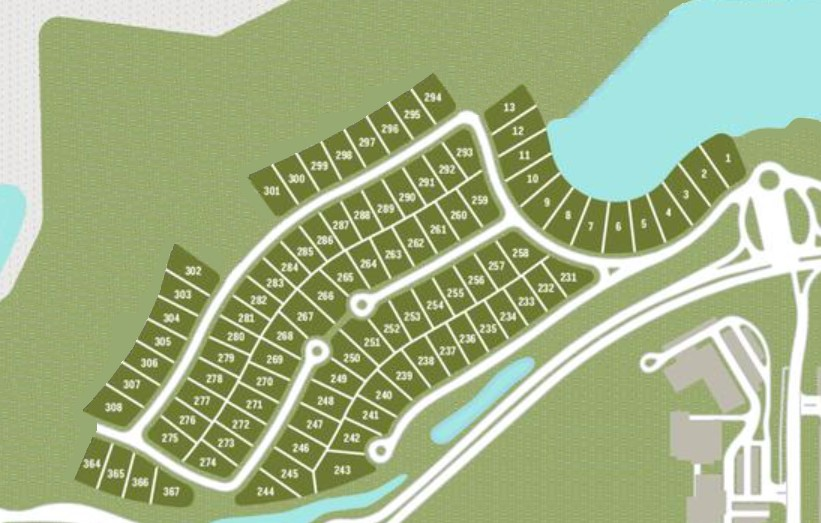
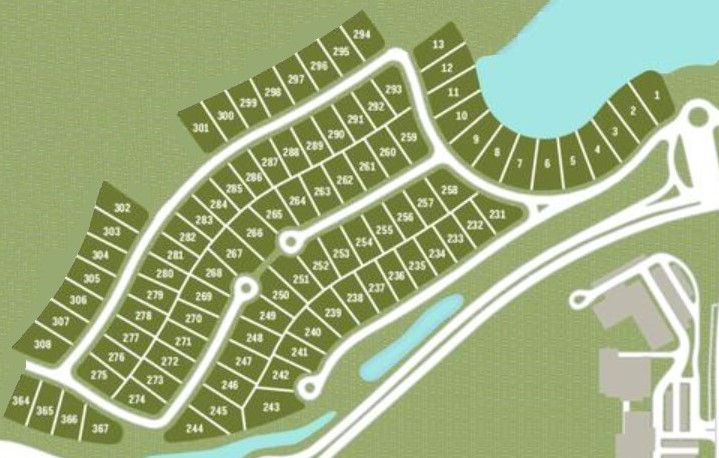
modifique tamano de mapa y parametros de las coordenadas

diff --git a/src/app/map/page.js b/src/app/map/page.js
@@ -9,7 +9,8 @@ import { getAllRobots } from "../networking/endpoints/robots";
 export default function Map() {
 
   //LOS PARÁMETROS DE X E Y VAN A TENER QUE SER MODIFICADOS ACORDE AL TAMAÑO DEL MAPA...
-  //EL MAPA ES 2.4 VECES MÁS GRANDE QUE LAS MEDIDAS DEL MAPA QUE USA PEDRO, 342 x 218...
+  //EL MAPA ES 2.1 VECES MÁS GRANDE QUE LAS MEDIDAS DEL MAPA QUE USA PEDRO, 342 x 218...
+  //LOS X e Y QUE VENGAN DEL AUTO VAN A TENER QUE SER MULTIPLICADOS POR 2,1 PARA ENCAJAR BIEN...
   const auto1 = [
     { x: 10, y: 10 },
     { x: 30, y: 25 },
@@ -44,19 +45,19 @@ export default function Map() {
         </div>
       </div>
       <div className="flex relative h-full w-2/3 mt-8 mr-5 justify-center">
-        <div id="contenedor" className="relative" style={{width:821, height:545}}>
+        <div id="contenedor" className="relative" style={{width:719, height:458}}>
           <Image
             src={MapImg} 
             alt = 'map'
-            width={821}
-            height={545}
+            width={719}
+            height={458}
           />
           {data.filter(x => x.x !== null).forEach((robot, index) => {
             const divObjeto = document.createElement("div");
             divObjeto.id = index;
             divObjeto.style.position = 'absolute';
-            divObjeto.style.right = robot.x + 'px';
-            divObjeto.style.bottom = Math.abs(robot.y) + 'px';
+            divObjeto.style.left = robot.x * 2.1 + 'px';
+            divObjeto.style.top = Math.abs(robot.y) * 2.1 + 'px';
             divObjeto.style.width = '8px';
             divObjeto.style.height = '8px';
             divObjeto.style.background = 'red';
@@ -69,3 +70,4 @@ export default function Map() {
     </div>
   )
 }
+/** */
